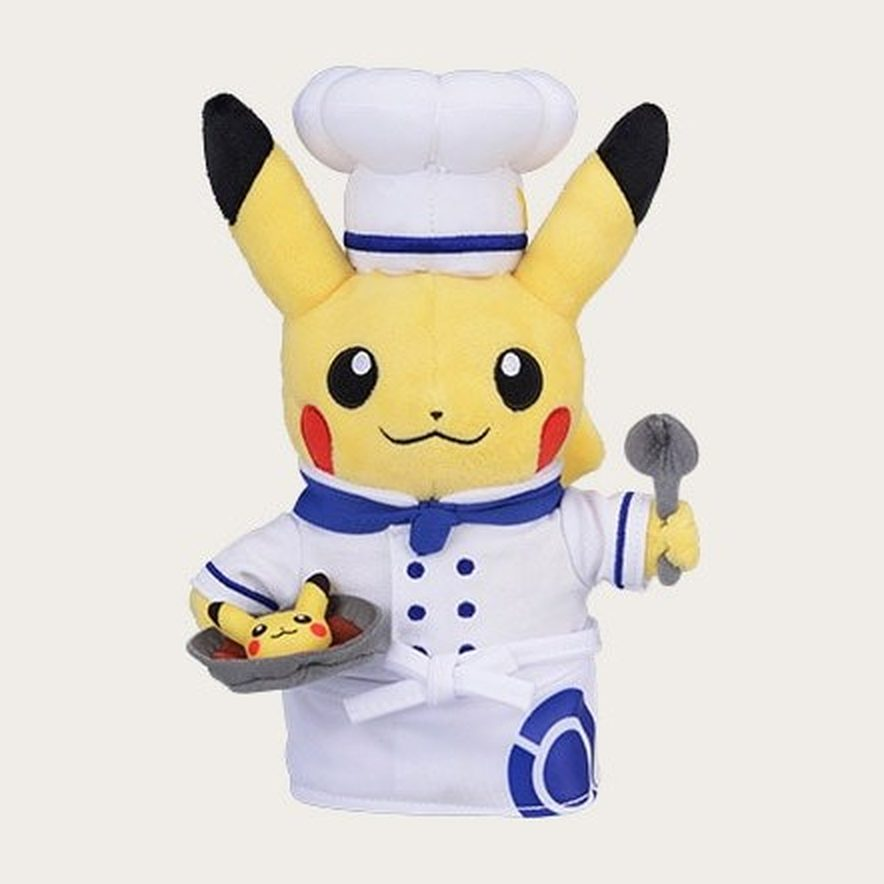
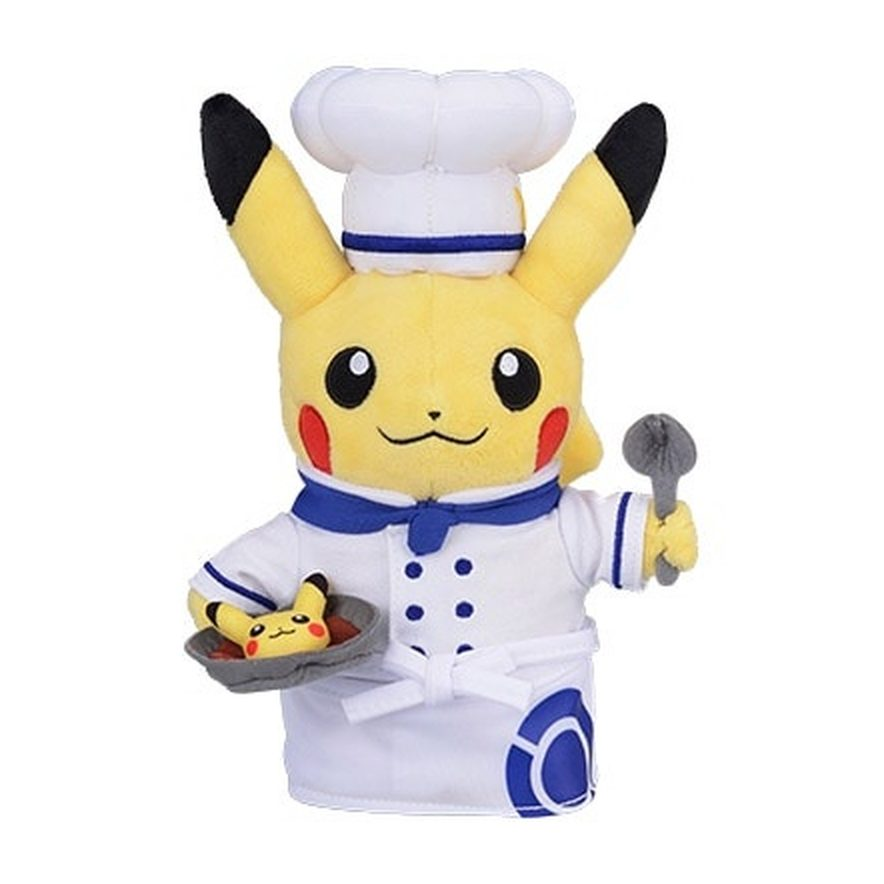
pokemon-center-dolls: cut out Pokémon Cafe chef/waitress onto white; CTS CA note
Claude-Session: https://claude.ai/code/session_01M6TQq33QhxbbsKCZmYDaPW

diff --git a/pokemon-center-dolls/index.html b/pokemon-center-dolls/index.html
@@ -126,7 +126,7 @@ const items = [
  {box:"08-cts-pilot.jpg", img:"08-cts-pilot.jpg", name:"新千歲機場 機長皮卡丘(ver.2)", jp:"ぬいぐるみ パイロットピカチュウ 新千歳空港ver.2", loc:"ポケモンストア 新千歲空港店限定", year:"2020/06(ver.2)", conf:"高",
   note:"黑色機長帽＋白襯衫、深藍領帶,胸前「CTS」徽章(新千歲機場代碼)。新千歲機場官網推薦商品頁「ぬいぐるみ パイロットピカチュウ 新千歳空港ver.2」,官方圖與實物一致;現價 ¥2,750(2023 年存檔頁為 ¥1,870)。初代(2014 開店款)是深藍雙排釦外套版。與空服款成對購入。"},
  {box:"08b-cts-ca.jpg", img:"08b-cts-ca.jpg", name:"新千歲機場 空服皮卡丘(ver.2)", jp:"CAピカチュウ ポケモンストア新千歳空港店 ver.2 ぬいぐるみ", loc:"ポケモンストア 新千歲空港店限定", year:"2020/06(ver.2)", conf:"高",
-  note:"藍色制服＋紅色寶貝球圖案領巾、紅腰帶,胸前「CTS」徽章。與機長款成對購入。JAN 4521329296562(駿河屋登錄品名);2020/06/13 與機長 ver.2 一起上市(夏服設計,依粉絲部落格)。白底商品圖由 Derek 提供(官方攝影風格,胸章被領巾遮住,CTS 版或成田 NRT 版無法從圖確認),官方價格未查到(成田空港 ver.2 同款設計但徽章為 NRT)。初代 CA(2015/05/28 加入)是粉紅條紋大蝴蝶結版,¥1,600(未稅)。"},
+  note:"藍色制服＋紅色寶貝球圖案領巾、紅腰帶,胸前「CTS」徽章。與機長款成對購入。JAN 4521329296562(駿河屋登錄品名);2020/06/13 與機長 ver.2 一起上市(夏服設計,依粉絲部落格)。白底商品圖由 Derek 提供(官方攝影,Derek 確認為 CTS 版;胸章被領巾遮住),官方價格未查到(成田空港 ver.2 同款設計但徽章為 NRT)。初代 CA(2015/05/28 加入)是粉紅條紋大蝴蝶結版,¥1,600(未稅)。"},
  {box:"13-white-pikachu.jpg", img:"13-white-pikachu.jpg", name:"淺淺丘（Pokémon Pokopia）", jp:"ぬいぐるみ ぽこ あ ポケモン ピカチュウ（うすいろ）", loc:"寶可夢中心(通販/全店)", year:"2026/03", conf:"高",
   note:"《Pokémon Pokopia》遊戲初登場的淺色皮卡丘「淺淺丘」——因幫朋友過度放電而虛弱,毛色轉為象牙白、耳朵下垂。刺繡眼、粉紅腮紅。定價 ¥2,750。"},
  {box:"14-sleepy-pikachu.jpg", img:"14-sleepy-pikachu.jpg", name:"趴睡皮卡丘(卡納赫拉聯名)", jp:"ぬいぐるみ Pokémon Yurutto 寝そべりピカチュウ", loc:"寶可夢中心(通販/全店)", year:"2020/12", conf:"高",
@@ -165,7 +165,7 @@ const TABS=[
 // 每個分頁內各自編號(同原本 1..n)
 const ALL=[];
 TABS.forEach(t=>t.data.forEach((it,i)=>ALL.push(Object.assign({},it,{id:t.id+'-'+(i+1),tab:t.id,n:i+1}))));
-const IMGV='?v=20261121d';
+const IMGV='?v=20261122a';
 const photosOf=c=>[c.box&&'img/box/'+c.box+IMGV,c.img&&'img/'+c.img+IMGV].filter(Boolean);
 CatalogViewer.init({
   load:()=>({items:ALL}),
